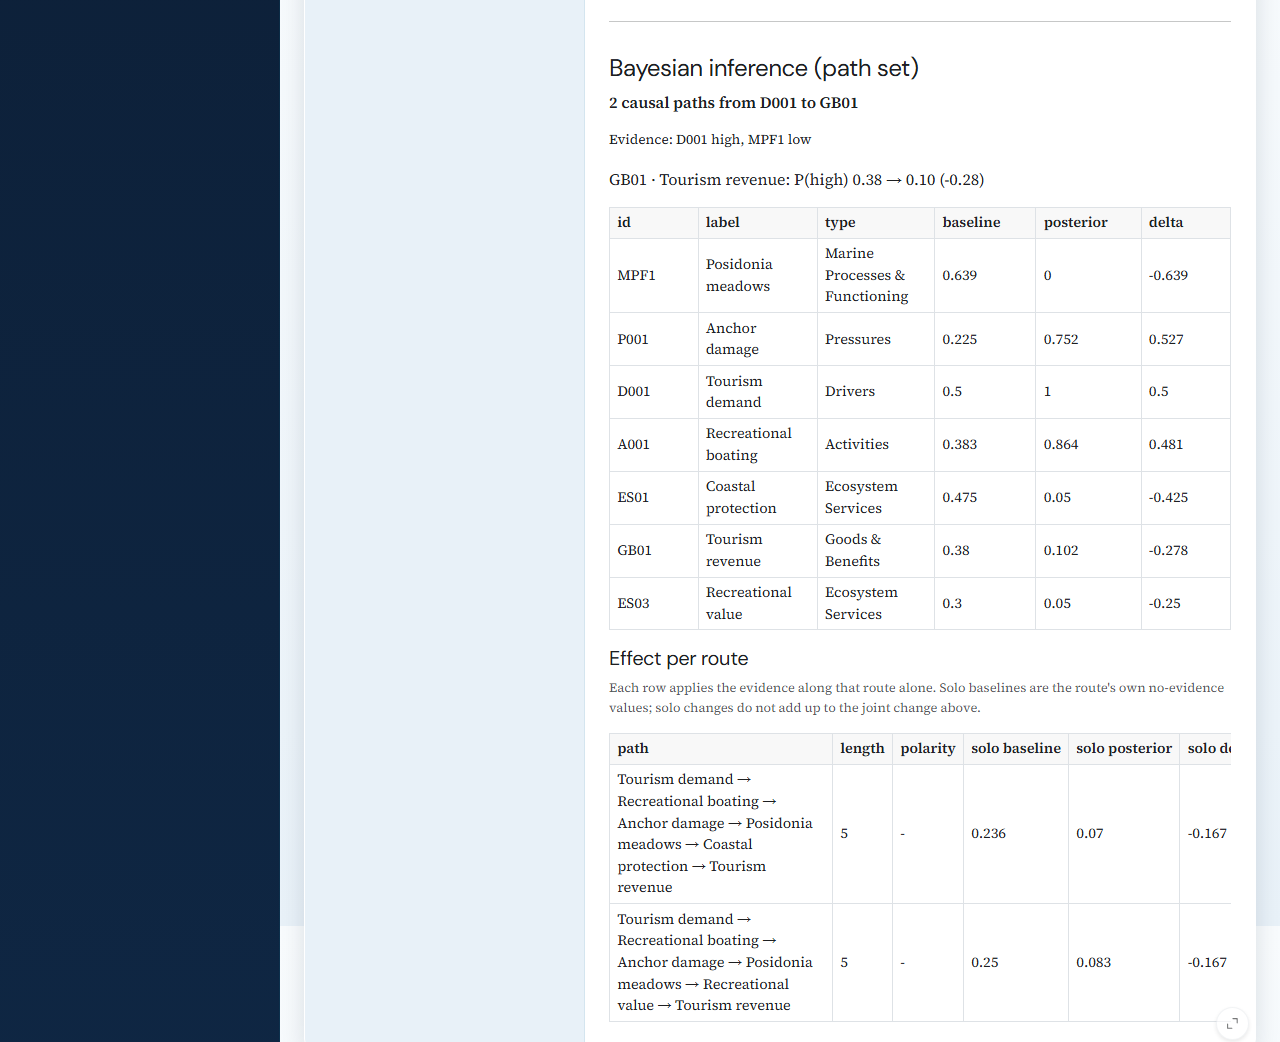
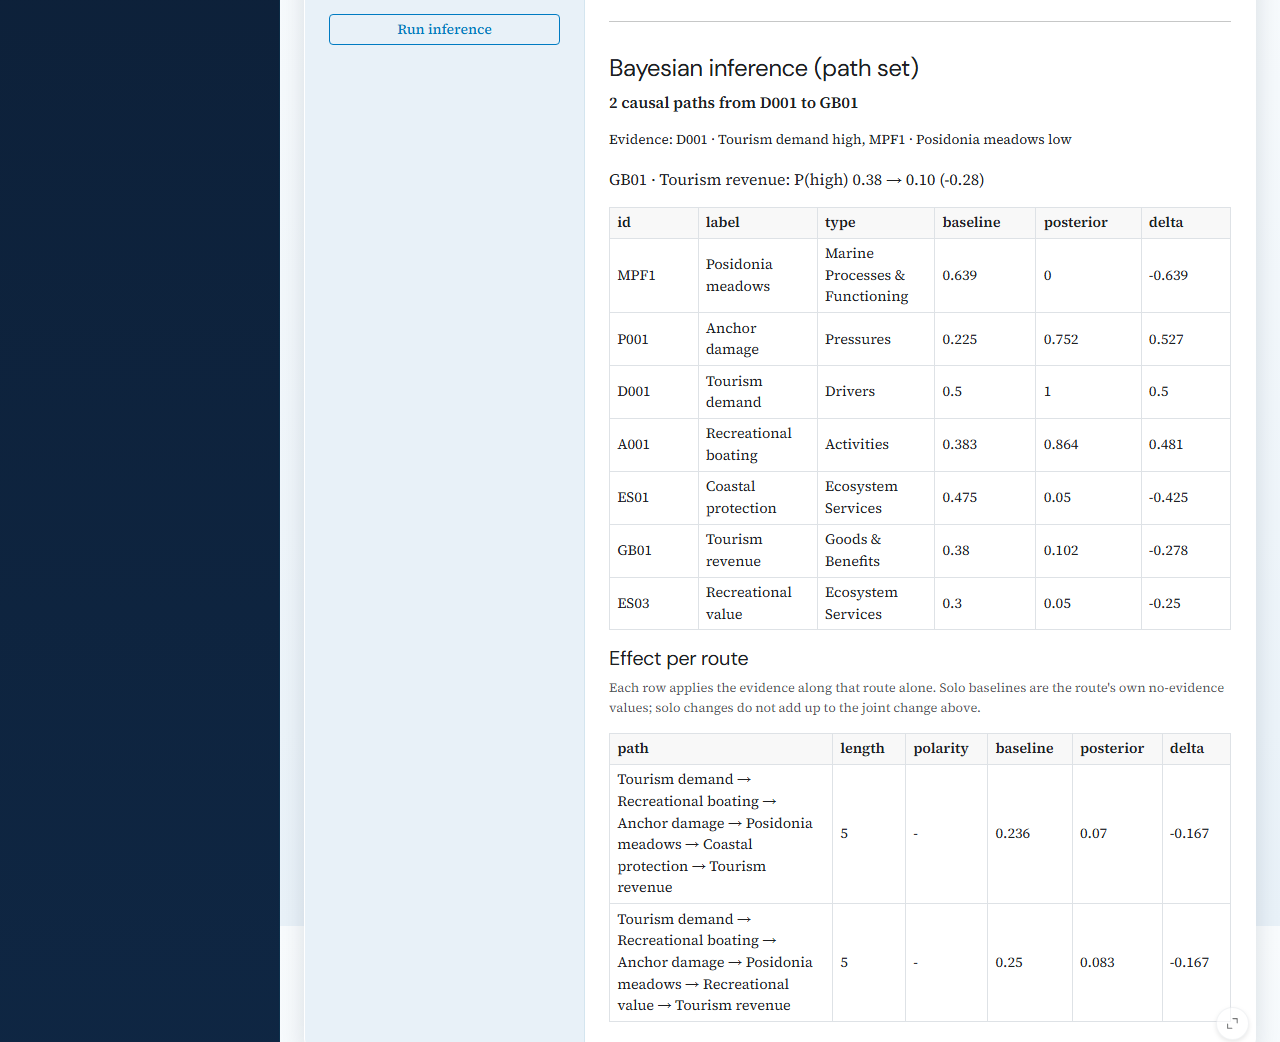
fix(intervention): close the four BBN cosmetic minors parked from v1.11.0
The evidence line listed bare element ids while the pickers above it and the
target line below it both showed "id · label". All three now agree, so the
line reads "Evidence: D001 · Tourism demand high, MPF1 · Posidonia meadows low".

The per-route table no longer overflows its panel. Measured on a live server at a
1280px viewport: with the headers "solo baseline", "solo posterior" and "solo
delta" the table was 653px wide inside a 622px overflow-x:auto container, so
the delta column — the one people read — sat past the edge and was cropped out
of the manual capture entirely. Dropping the "solo " prefix brings it to 622px,
which fits exactly. The earlier attempt at this, widening the numeric columns
to fit their own headers, was tried first and makes the overflow worse (69px
computed from the measured column widths, instead of 31px); it is not in this change.

That prefix was mandated by Decision 3 of the binding spec, so the spec is
amended here rather than contradicted. The decision asked for two guards
against summing per-route numbers — the "solo" labels and a legend saying they
do not add up — and keeping both alongside the 14rem path column
over-determines the width at 1280px. The legend is the half that actually
states the non-additivity and it is untouched, so the prefix is the half that
gives way. The section heading still reads "Effect per route". The v1.11.0
plan is left as written: it is the historical argument, and the spec carries
the amendment.
[…]

diff --git a/sespy/modules/analysis_intervention.py b/sespy/modules/analysis_intervention.py
@@ -39,6 +39,22 @@ from ..i18n import Translator, t
 _COMPUTING = object()
 
 
+def _selected_ids(read) -> list[str]:
+    """One multi-selectize read, coerced to a list of ids.
+
+    Two shapes have to collapse to the empty list: Shiny hands back `None`
+    (not `()`) while nothing is chosen, and reading an input that does not
+    exist yet — the BBN pickers live in a `@render.ui` — raises. Three call
+    sites used to repeat this; keep them on this one helper so a picker
+    that starts returning something new is fixed in a single place.
+    """
+    try:
+        v = read()
+    except Exception:                    # noqa: BLE001 — input not registered yet
+        v = None
+    return list(v) if v else []
+
+
 def _build_intervention_network(
     isa: IsaData,
     impact: dict[str, dict[str, float]],
@@ -241,11 +257,7 @@ def analysis_intervention_server(
 
     @reactive.calc
     def chosen_ids() -> list[str]:
-        try:
-            sel = input.ablate()
-        except Exception:
-            sel = None
-        return list(sel) if sel else []
+        return _selected_ids(input.ablate)
 
     @reactive.calc
     def impact() -> dict[str, dict[str, float]]:
@@ -503,19 +515,16 @@ def analysis_intervention_server(
             return ui.div()
         if not src or not tgt:
             return ui.div()
-        # Deliberately stored mode: the node set is mode-invariant and this runs in a render, so keep scipy off the UI thread.
+        # Deliberately stored mode: the node set is mode-invariant and this
+        # runs in a render, so keep scipy off the UI thread.
         info = bayes.path_set_dag(isa, src, tgt)     # networkx only, ≤3 ms on shipped projects
         if not info["nodes"]:
             return ui.p(t("bbn.no_path"), class_="text-muted", style="font-size: 0.8rem;")
         by_id = {el.id: el.label for el in isa.elements}
         choices = {n: f"{n} · {by_id.get(n, n)}" for n in info["nodes"] if n not in (src, tgt)}
         with reactive.isolate():
-            def _prev(read):
-                try:
-                    v = read()
-                except Exception:
-                    v = None
-                return [x for x in (list(v) if v else []) if x in choices]
+            def _prev(read):      # keep only picks that survive the new choice set
+                return [x for x in _selected_ids(read) if x in choices]
             prev_hi, prev_lo = _prev(input.bbn_high), _prev(input.bbn_low)
         return ui.div(
             ui.input_selectize("bbn_high", t("bbn.also_high"), choices,
@@ -549,14 +558,7 @@ def analysis_intervention_server(
         if not src or not tgt:
             return
 
-        def _picks(read):            # multi selectize: None when nothing chosen
-            try:
-                v = read()
-            except Exception:
-                v = None
-            return list(v) if v else []
-
-        high, low = _picks(input.bbn_high), _picks(input.bbn_low)
+        high, low = _selected_ids(input.bbn_high), _selected_ids(input.bbn_low)
         _bbn_gen[0] += 1
         _bbn_result.set(_COMPUTING)
         link_mode = "posterior" if input.bbn_posterior() else "stored"
@@ -593,14 +595,17 @@ def analysis_intervention_server(
         lines = [ui.p(ui.tags.strong(t(
             "bbn.summary", n=r["n_paths"], source=r["source"], target=r["target"],
             trunc=t("bbn.truncated") if r["truncated"] else "")))]
-        items = ", ".join(f"{k} {t('bbn.high') if v == 1 else t('bbn.low')}"
+        # "D001 · Tourism demand high" — the same `id · label` shape the
+        # pickers and the target line use, so the three agree on screen.
+        items = ", ".join(f"{k} · {by_id.get(k, k)} "
+                          f"{t('bbn.high') if v == 1 else t('bbn.low')}"
                           for k, v in sorted(r["evidence"].items()))
         lines.append(ui.p(t("bbn.evidence", items=items), style="font-size: 0.85rem;"))
         if r.get("link_mode") == "posterior":
             lines.append(ui.p(t("bbn.posterior_line", rated=r["rated"], total=r["total"]),
                               class_="text-muted", style="font-size: 0.85rem;"))
         focus = r.get("focus")
-        if focus:
+        if focus is not None:      # focus_node returns an id or None, never ""
             row = next(x for x in r["rows"] if x["id"] == focus)
             lines.append(ui.p(t("bbn.target_line", id=focus, label=by_id.get(focus, focus),
                                 base=f"{row['baseline']:.2f}", post=f"{row['p_high']:.2f}",
@@ -639,7 +644,7 @@ def analysis_intervention_server(
         import pandas as pd
 
         r = _bbn_result.get()
-        cols = ["path", "length", "polarity", "solo baseline", "solo posterior", "solo delta"]
+        cols = ["path", "length", "polarity", "baseline", "posterior", "delta"]
         if not isinstance(r, dict) or "error" in r:     # None, _COMPUTING, or an error
             return pd.DataFrame(columns=cols)
         by_id = {el.id: el.label for el in project_data.get().isa_data.elements}
@@ -647,8 +652,16 @@ def analysis_intervention_server(
             "path": " → ".join(by_id.get(n, n) for n in x["path"]),
             "length": x["length"],
             "polarity": x["polarity"],
-            "solo baseline": round(x["baseline"], 3),
-            "solo posterior": round(x["p_high"], 3),
-            "solo delta": round(x["delta"], 3),
+            "baseline": round(x["baseline"], 3),
+            "posterior": round(x["p_high"], 3),
+            "delta": round(x["delta"], 3),
         } for x in r.get("paths", [])], columns=cols)
+        # Col 0 holds a label chain and needs room or it wraps to ~10 lines.
+        # The three numeric headers used to read "solo baseline"/"solo
+        # posterior"/"solo delta", which pushed the table to 653px inside a
+        # 622px scroll container: it scrolled, but the last column sat past
+        # the edge and was cut in the manual capture. Dropping the prefix is
+        # what buys the width back, and it costs nothing: the heading above
+        # reads "Effect per route", and the legend under it is the text that
+        # actually warns these values do not add up to the joint change.
         return render.DataGrid(df, styles=[{"cols": [0], "style": {"min-width": "14rem"}}])

diff --git a/tests/test_intervention_e2e.py b/tests/test_intervention_e2e.py
@@ -220,7 +220,10 @@ async def main():
             "() => (document.getElementById('intervention-bbn_summary')?.innerText || '')"
             ".includes('Evidence')", timeout=60000)
         ev_text = (await page.inner_text("#intervention-bbn_summary")).strip()
-        assert "Evidence: D001 high, MPF1 low" in ev_text, f"unexpected evidence line: {ev_text!r}"
+        # Each evidence item carries its label, like the pickers and the
+        # target line: "D001 · Tourism demand high, MPF1 · Posidonia meadows low".
+        assert "Evidence: D001 · Tourism demand high, MPF1 · Posidonia meadows low" in ev_text, \
+            f"unexpected evidence line: {ev_text!r}"
         assert "(-0.28)" in ev_text, f"expected the MPF1-low golden on GB01: {ev_text!r}"
         n_paths = await page.evaluate(
             "() => document.querySelectorAll('#intervention-bbn_paths table tbody tr').length")

diff --git a/docs/superpowers/specs/2026-09-10-sespy-bbn-free-evidence-design.md b/docs/superpowers/specs/2026-09-10-sespy-bbn-free-evidence-design.md
@@ -14,7 +14,11 @@ check before the pgmpy import, golden e2e values, path-table tie order).
 Implemented as v1.11.0 on 2026-09-11 (plan
 `docs/superpowers/plans/2026-09-11-bbn-free-evidence.md`); two sentences
 amended after the final review to match what shipped (e2e picker-clear
-step, path-column width).
+step, path-column width). Amended again on 2026-09-14, closing the four
+cosmetic minors parked from that release: the evidence line renders
+`id · label` per item, and the route table's numeric headers drop the
+`solo ` prefix (Decision 3 revised — the prefix and the 14 rem path column
+together made the table wider than the panel it sits in).
 
 ---
 
@@ -37,7 +41,7 @@ the two existing query presets.
 |---|---|---|
 | 1 | Attribution = solo-path effect, not edge ablation | Noisy-OR is sub-additive and routes share edges, so no per-route decomposition sums to the joint delta. A chain built from one route alone is cheap (≤ 100 tiny chains), deterministic, and answers the question practitioners ask through the causal-path tracer. Edge ablation answers "which link", a different question; deferred. |
 | 2 | Evidence UI = keep the forward / diagnostic radio as a preset and add two multi-select pickers ("also high", "also low") that merge into it | Existing workflow, e2e and manual text stay valid. "Source low" is not askable; nobody has asked for it. Conflicts are reported and block the run rather than being silently resolved. |
-| 3 | Per-route numbers are labelled *solo* and carry a legend that they do not add up | Stakeholders will otherwise sum them and compare with the joint delta. |
+| 3 | Per-route numbers are labelled *solo* and carry a legend that they do not add up | Stakeholders will otherwise sum them and compare with the joint delta. **Amended 2026-09-14:** the *column headers* drop the `solo ` prefix; the legend and the "Effect per route" heading carry the guard instead. Measured: the three prefixed headers made the table 653 px wide inside a 622 px scroll container, so the delta column sat past the edge and was cut off in the manual capture. Keeping both this decision's prefix and the 14 rem path column over-determines the width at a 1280 px viewport; the legend is the half that actually states the non-additivity, so the prefix is the half that gives way. |
 | 4 | The pickers live in their own `output_ui`, not inside `bbn_controls` (review 2026-09-11) | `bbn_controls` renders the source/target selects and deliberately reads them under `isolate()` so a pick never re-renders the select being used. Picker choices depend on the pair, so they must be a separate output that reacts to the pair. |
 
 ---
@@ -158,8 +162,12 @@ the threading and generation-counter discipline and runs, in order:
 - The focus line uses `r["focus"]` instead of today's inline rule at
   line 521; when it is None the line is omitted.
 - New evidence line: `bbn.evidence` with `{items}` = comma-joined
-  `f"{id} {t('bbn.high' | 'bbn.low')}"` over `r["evidence"]` in sorted id
-  order (always present: the preset is evidence too).
+  `f"{id} · {label} {t('bbn.high' | 'bbn.low')}"` over `r["evidence"]` in
+  sorted id order (always present: the preset is evidence too). **Amended
+  2026-09-14:** the item was `f"{id} {t(...)}"`, bare ids. The pickers above
+  this line and the focus line below it both render `id · label`, so the
+  summary was the one surface naming elements by id alone; all three now
+  agree.
 - When `r["ignored"]` is non-empty, a muted `bbn.ignored` line with `{ids}`.
 - Under the node table: `ui.h5(t("bbn.paths_title"))`, a muted legend
   `bbn.paths_legend` ("Each row applies the evidence along that route
@@ -167,7 +175,8 @@ the threading and generation-counter discipline and runs, in order:
   changes do not add up to the joint change above."), and
   `ui.output_data_frame("bbn_paths")` with columns
   `path` (labels joined with " → "), `length`, `polarity`,
-  `solo baseline`, `solo posterior`, `solo delta` (3 decimals). Same guard
+  `baseline`, `posterior`, `delta` (3 decimals; the `solo ` prefix was
+  dropped 2026-09-14, see Decision 3). Same guard
   as `bbn_table`: empty frame unless the result is a dict without
   `"error"`; also empty when `r["paths"]` is `[]`. The populated frame is
   returned as `render.DataGrid(df, styles=[{"cols": [0], "style":

diff --git a/CHANGELOG.md b/CHANGELOG.md
@@ -2,6 +2,22 @@
 
 All notable changes to SESPy.
 
+## [Unreleased]
+
+- **Intervention BBN evidence line names its nodes.** It listed bare ids
+  (`Evidence: D001 high`) while the pickers above it and the target line
+  below it both showed `id · label`. All three now agree:
+  `Evidence: D001 · Tourism demand high`.
+- **The per-route table fits its panel again.** Its numeric columns were
+  headed "solo baseline", "solo posterior" and "solo delta", which made the
+  table wider than the area it sits in: it scrolled sideways, but the last
+  column sat past the edge and was cut off in the manual screenshot. The
+  headers now read "baseline", "posterior" and "delta", since the section
+  heading and the legend under it already say these are per-route values.
+- Internal: the Intervention module's three multi-selectize reads share one
+  coercion helper, and the focus check tests for `None` explicitly instead
+  of relying on truthiness.
+
 ## [1.12.1] — 2026-09-13
 
 - **Cheaper posterior links.** `link_params` reads the Beta mean directly
